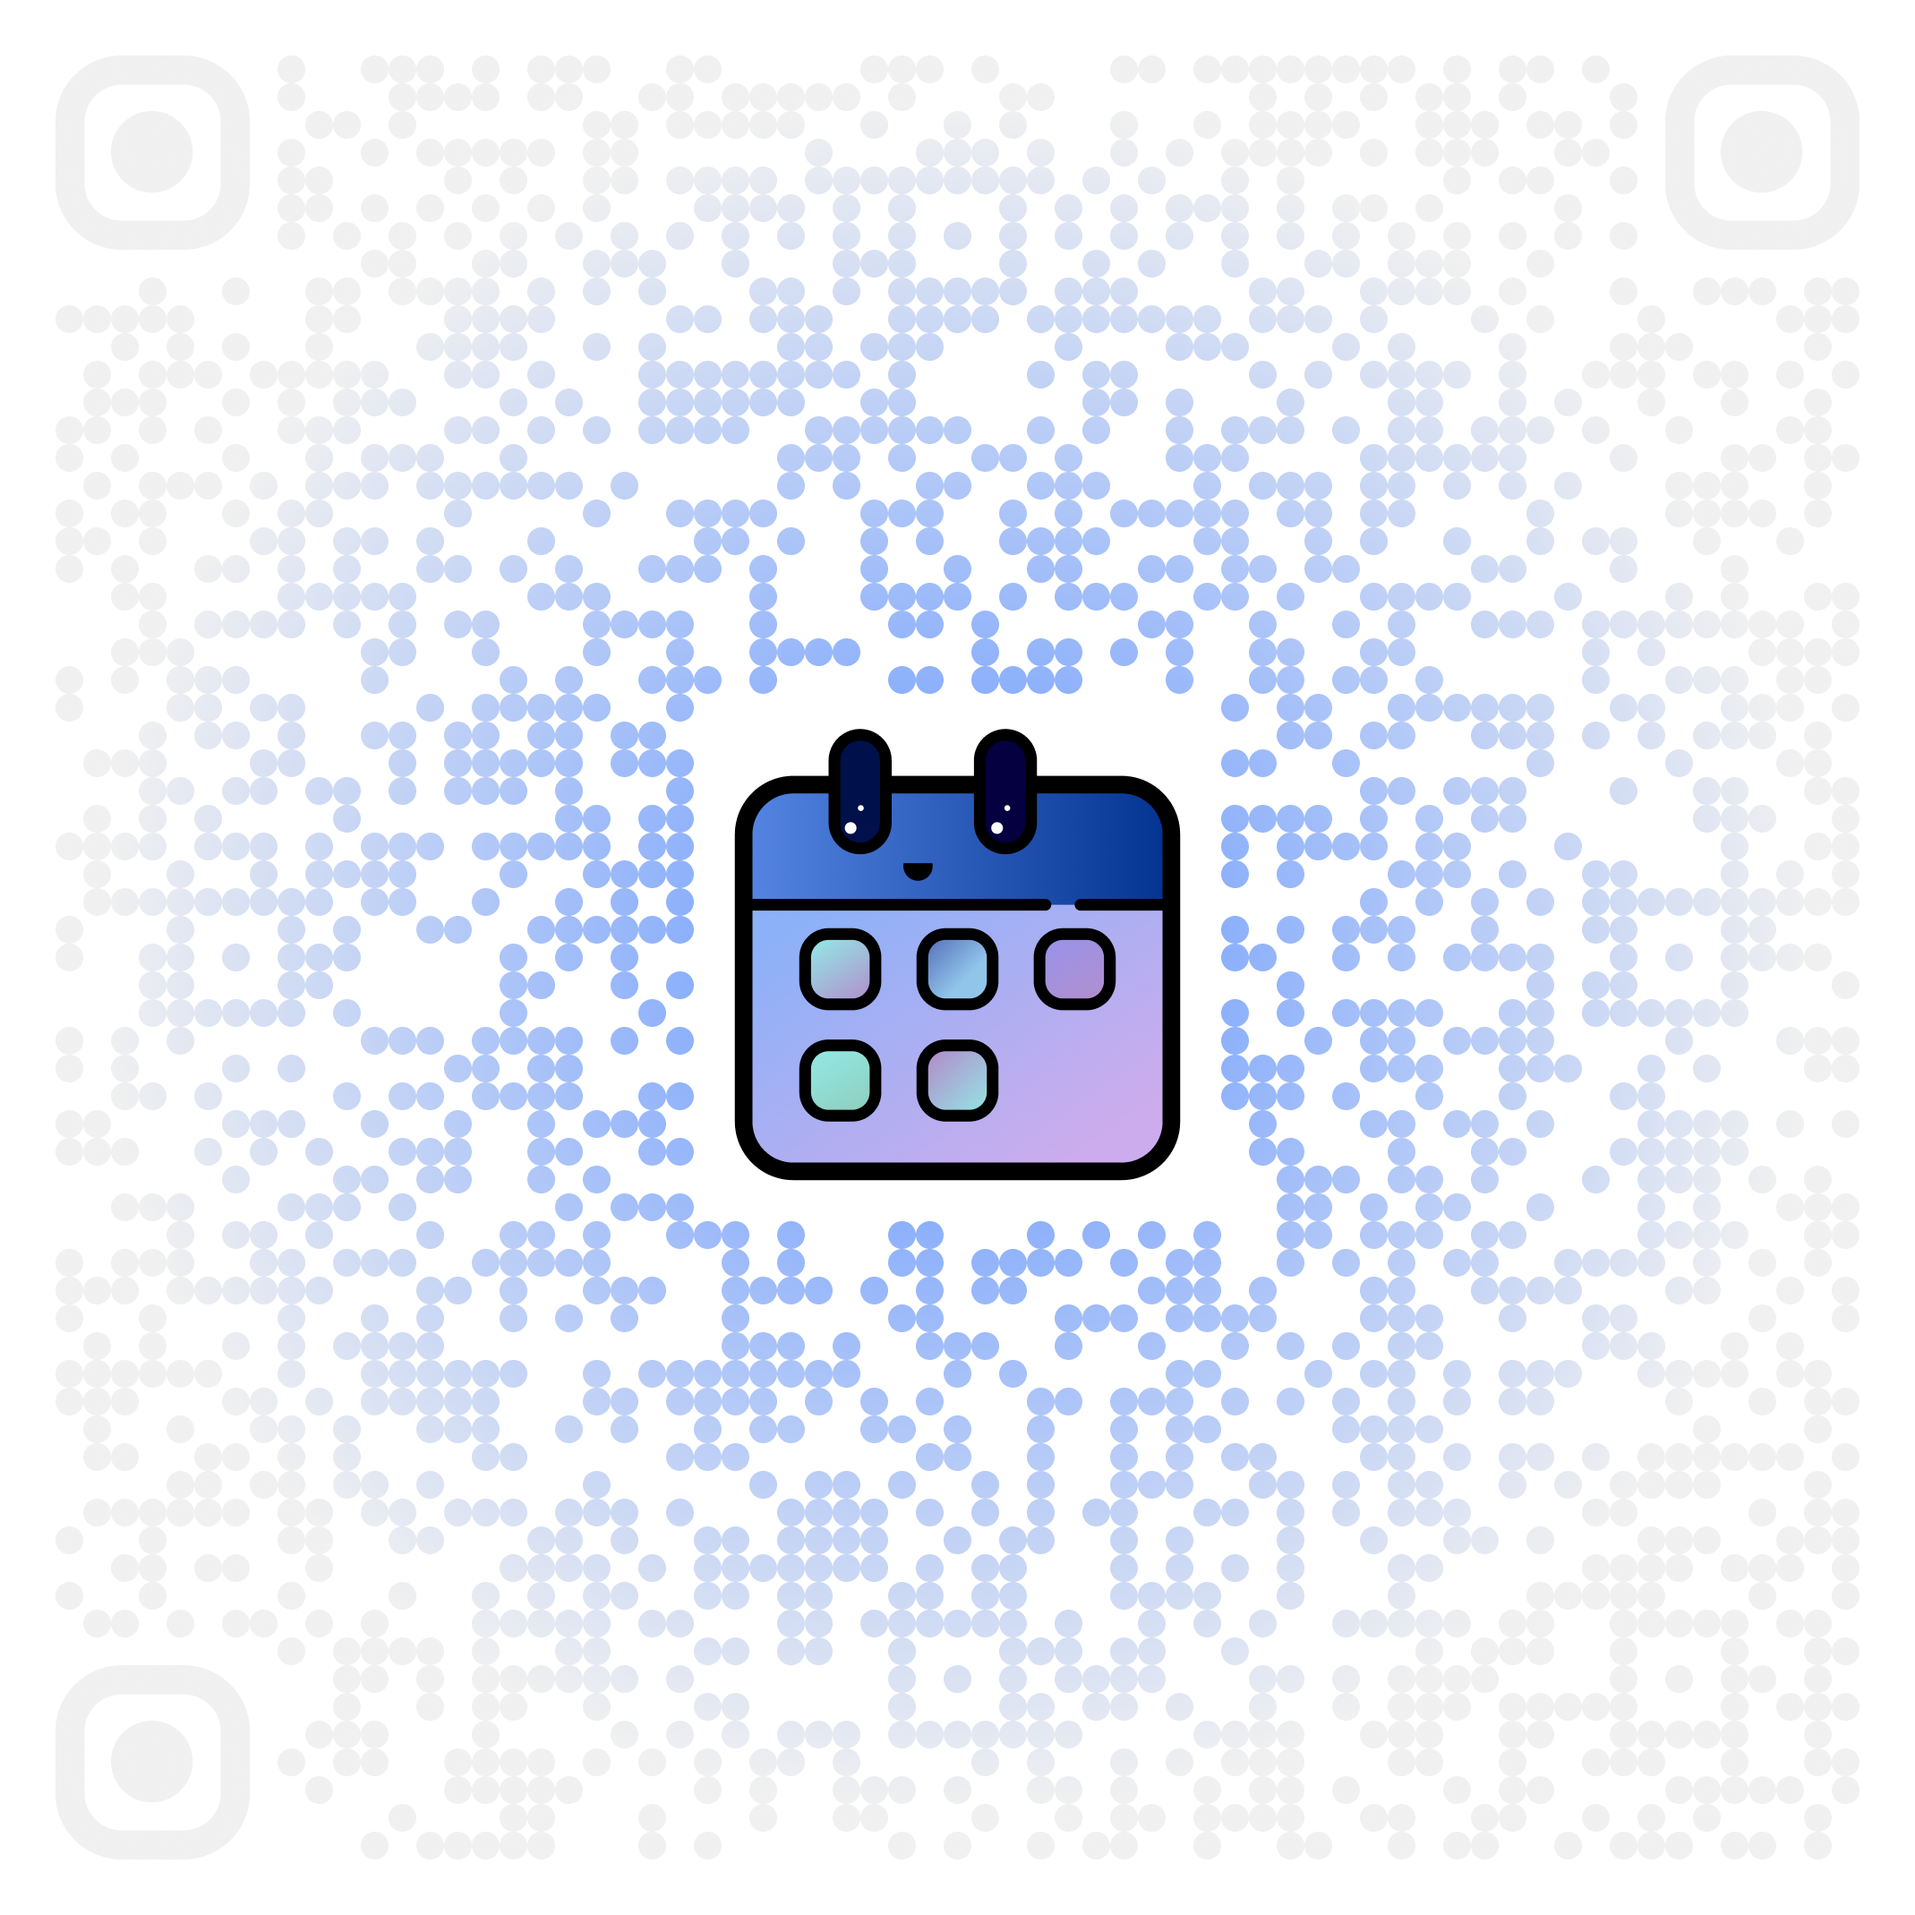
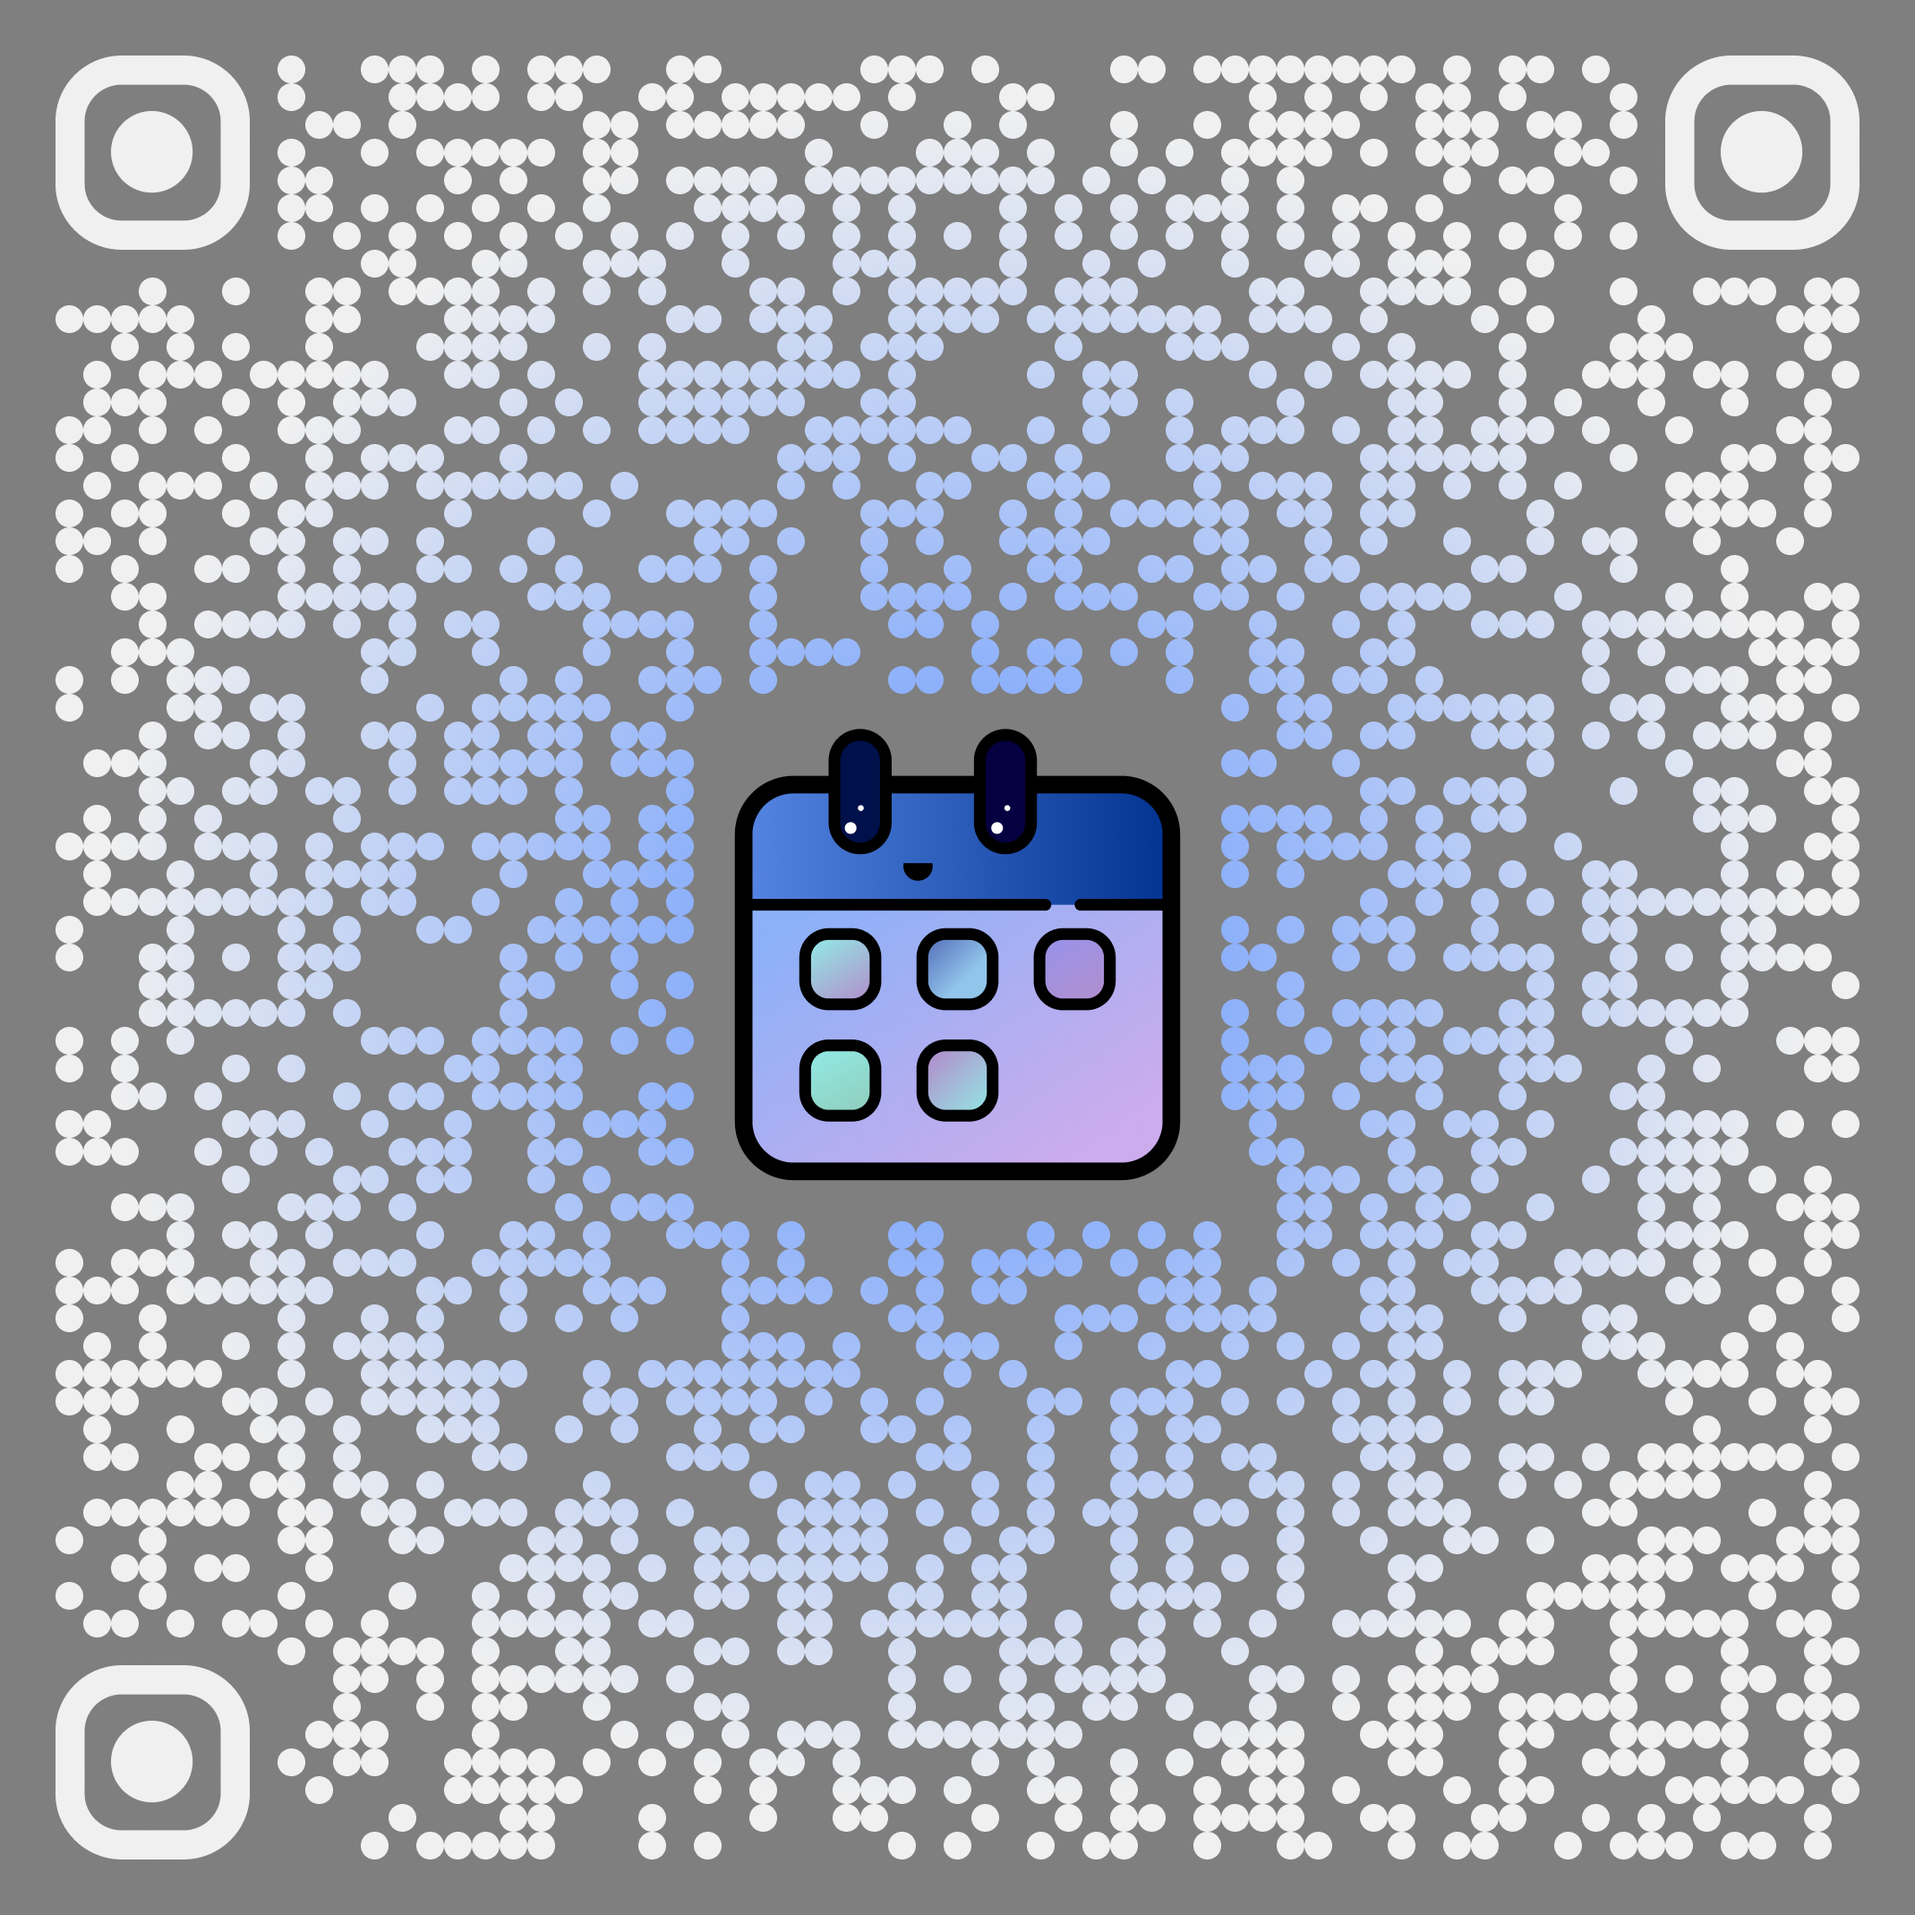
new try with pngs and bg

diff --git a/redesign.html b/redesign.html
@@ -30,8 +30,8 @@
                 </a>
                 <div class="card">
                     <h3 class="card-title">Apple Calendar (iOS)</h3>
-                    <img src="images/cali_qr-code_light.svg" alt="" class="card-img light-only">
-                    <img src="images/cali_qr-code_dark.svg" alt="" class="card-img dark-only">
+                    <img src="images/cali_qr-code_light.png" alt="" class="card-img light-only">
+                    <img src="images/cali_qr-code_dark.png" alt="" class="card-img dark-only">
                     <div class="divider"></div>
                     <p class="card-desc">Den QR Code länger gedrückt halten und “öffnen”.</p>
                 </div>
